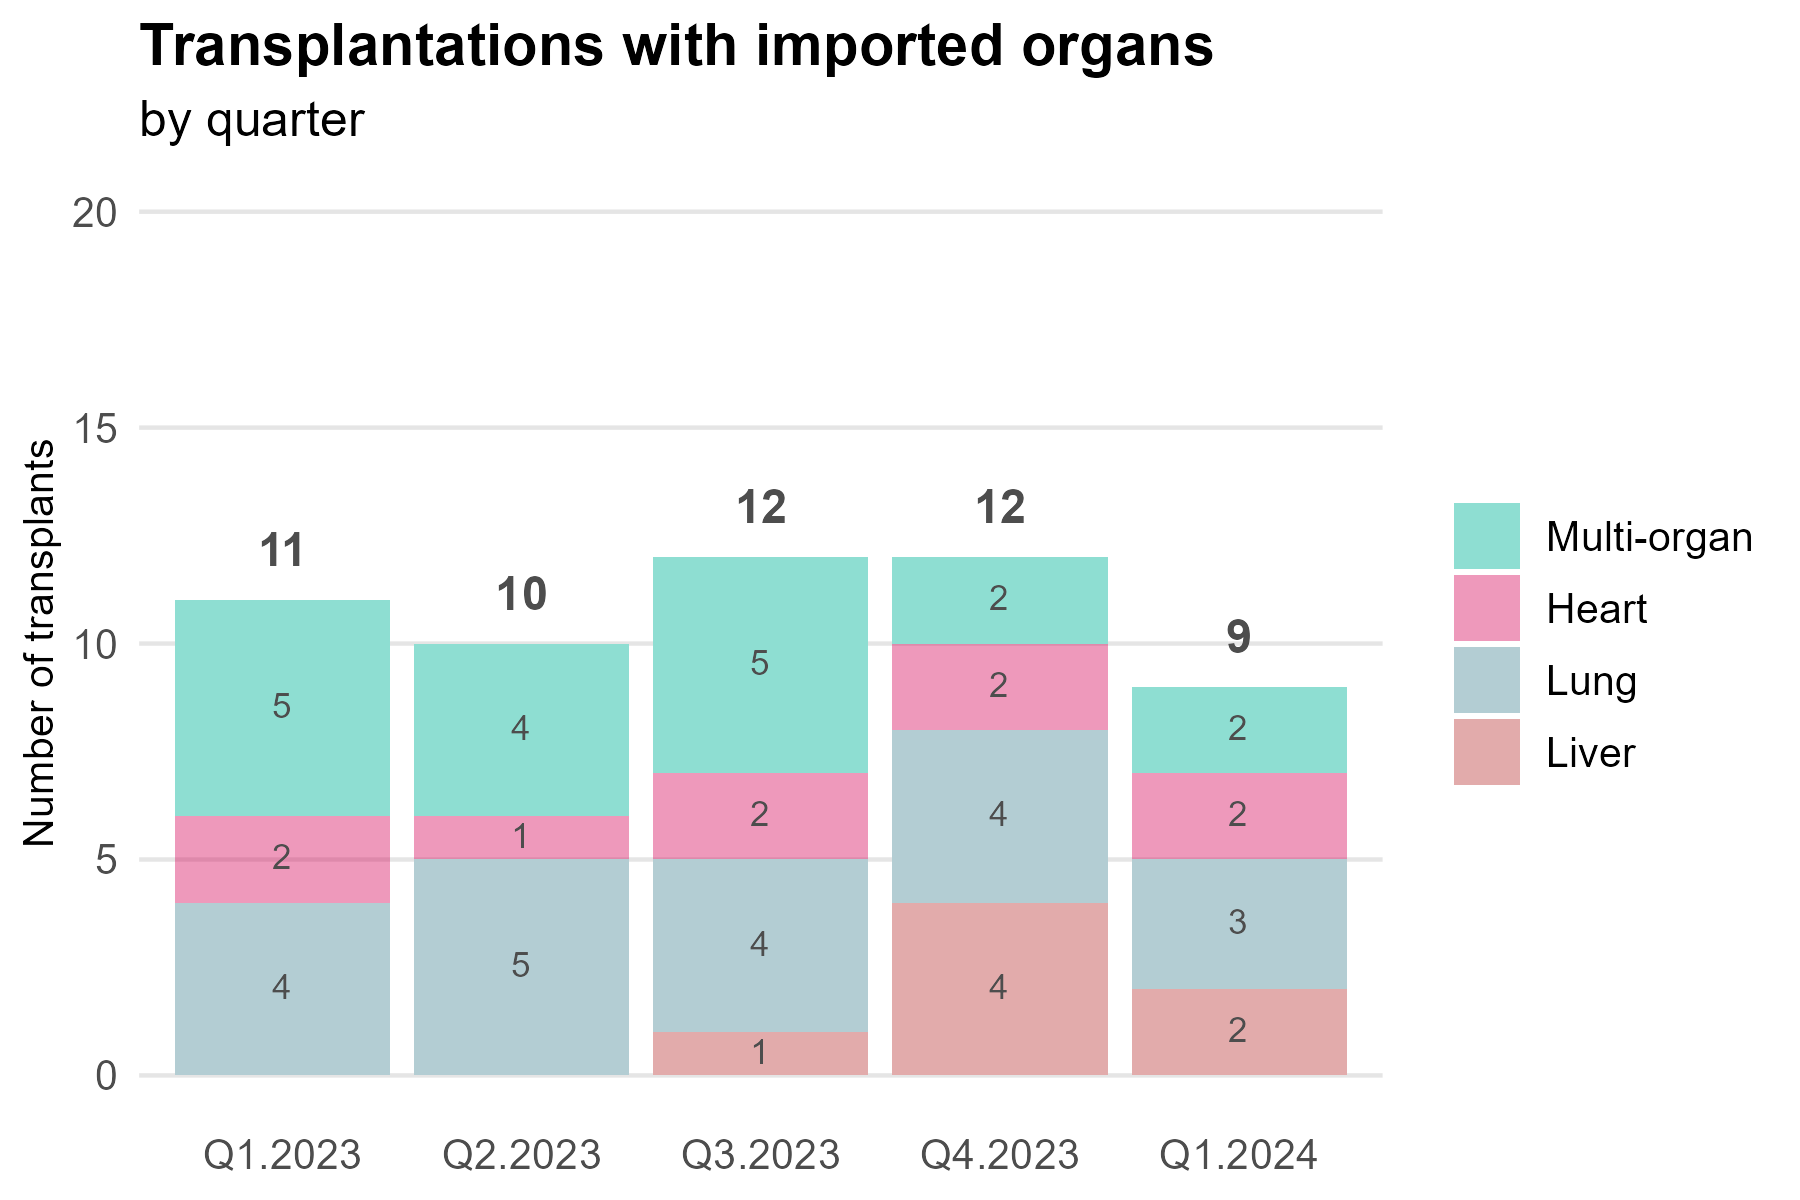
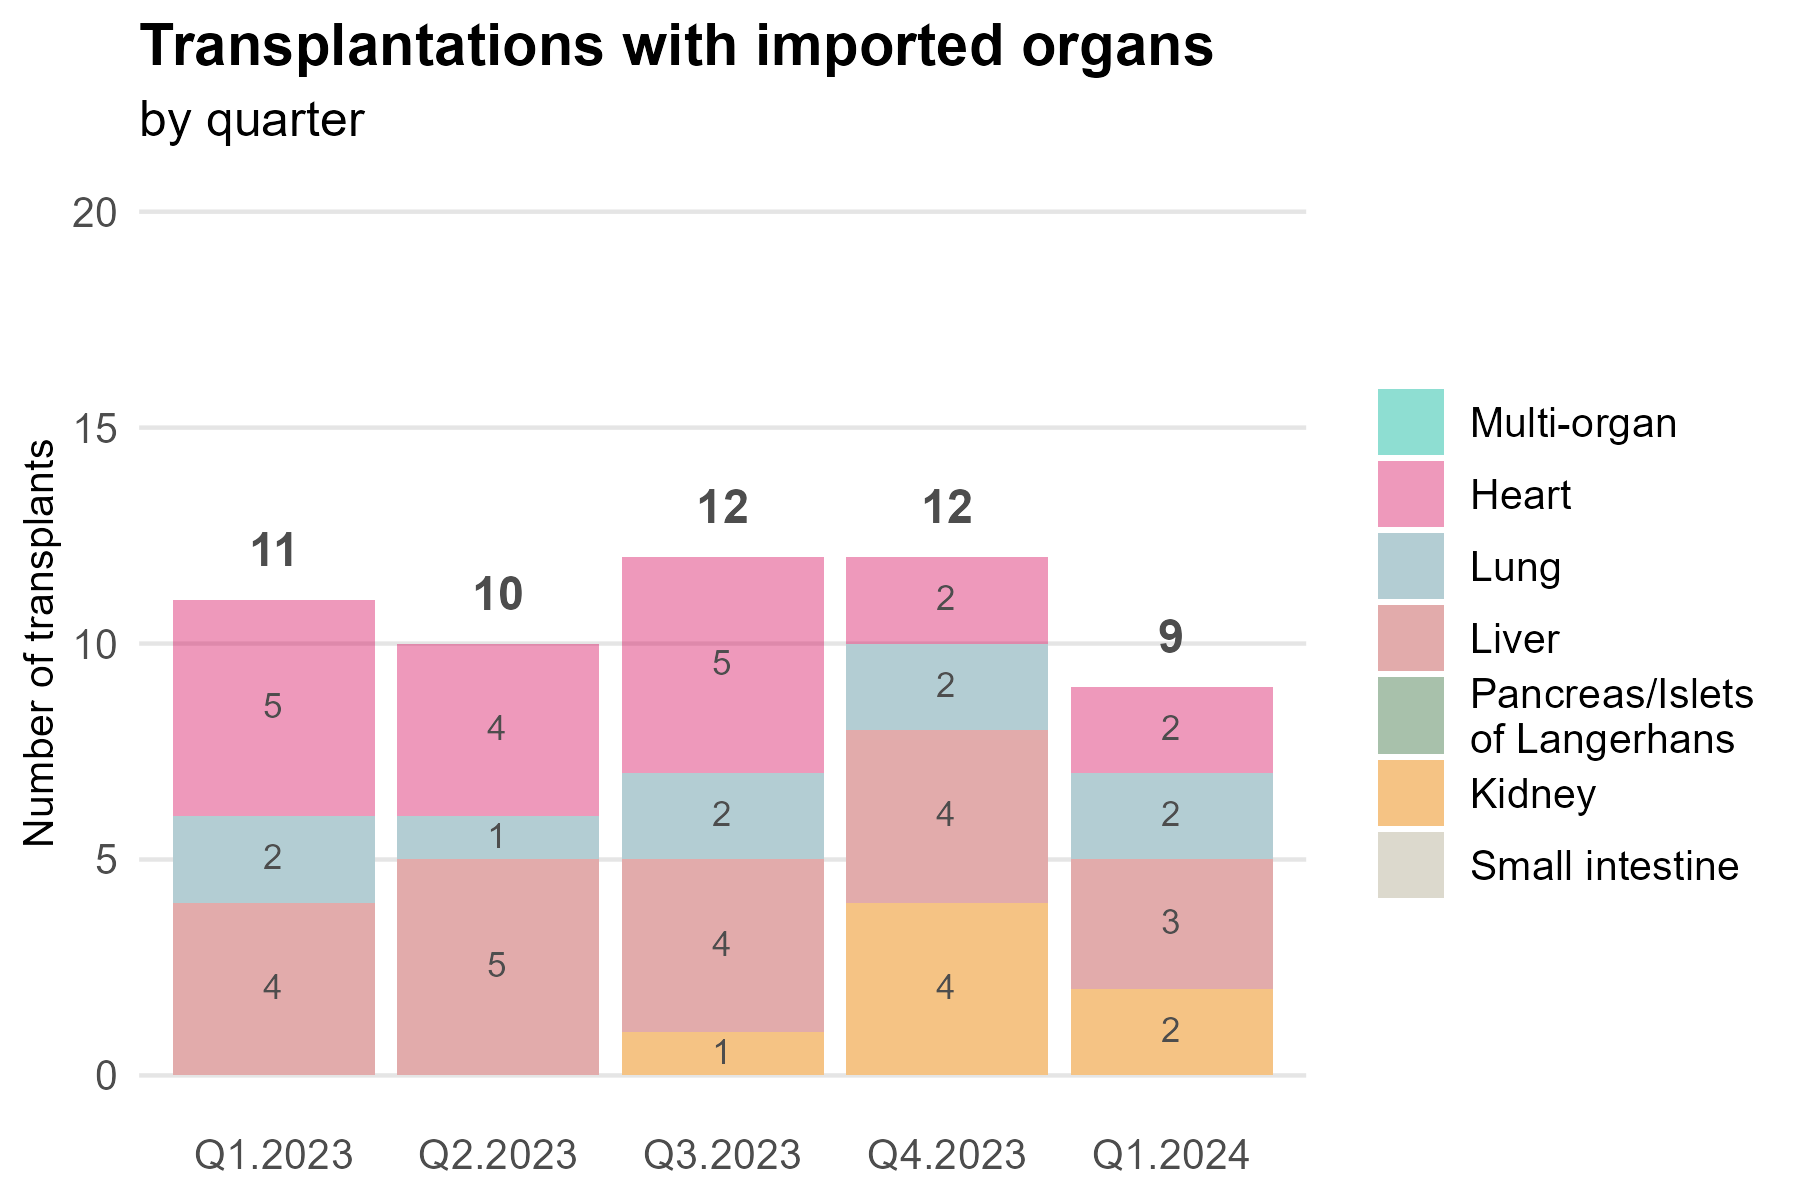
added fig 3.3

diff --git a/docs/posts/2024-Q1/index.html b/docs/posts/2024-Q1/index.html
@@ -186,6 +186,7 @@ ul.task-list li input[type="checkbox"] {
   <ul class="collapse">
   <li><a href="#transplantationen-1" id="toc-transplantationen-1" class="nav-link" data-scroll-target="#transplantationen-1">3.1 Transplantationen</a></li>
   <li><a href="#transplantationen-mit-importierten-organen" id="toc-transplantationen-mit-importierten-organen" class="nav-link" data-scroll-target="#transplantationen-mit-importierten-organen">3.2 Transplantationen mit importierten Organen</a></li>
+  <li><a href="#exportierte-organe" id="toc-exportierte-organe" class="nav-link" data-scroll-target="#exportierte-organe">3.3 Exportierte Organe</a></li>
   </ul></li>
   </ul>
 </nav>
@@ -233,6 +234,10 @@ ul.task-list li input[type="checkbox"] {
 <section id="transplantationen-mit-importierten-organen" class="level2">
 <h2 class="anchored" data-anchor-id="transplantationen-mit-importierten-organen">3.2 Transplantationen mit importierten Organen</h2>
 <p><img src="Fig3.2-de.png" class="img-fluid" style="width:80.0%"></p>
+</section>
+<section id="exportierte-organe" class="level2">
+<h2 class="anchored" data-anchor-id="exportierte-organe">3.3 Exportierte Organe</h2>
+<p><img src="Fig3.3-de.png" class="img-fluid" style="width:80.0%"></p>
 
 
 </section>

diff --git a/docs/fr/posts/2024-Q1/index.html b/docs/fr/posts/2024-Q1/index.html
@@ -186,6 +186,7 @@ ul.task-list li input[type="checkbox"] {
   <ul class="collapse">
   <li><a href="#transplantations-1" id="toc-transplantations-1" class="nav-link" data-scroll-target="#transplantations-1">3.1 Transplantations</a></li>
   <li><a href="#transplantations-avec-des-organes-importés" id="toc-transplantations-avec-des-organes-importés" class="nav-link" data-scroll-target="#transplantations-avec-des-organes-importés">3.2 Transplantations avec des organes importés</a></li>
+  <li><a href="#organes-exportés" id="toc-organes-exportés" class="nav-link" data-scroll-target="#organes-exportés">3.3 Organes exportés</a></li>
   </ul></li>
   </ul>
 </nav>
@@ -233,6 +234,10 @@ ul.task-list li input[type="checkbox"] {
 <section id="transplantations-avec-des-organes-importés" class="level2">
 <h2 class="anchored" data-anchor-id="transplantations-avec-des-organes-importés">3.2 Transplantations avec des organes importés</h2>
 <p><img src="Fig3.2-fr.png" class="img-fluid" style="width:80.0%"></p>
+</section>
+<section id="organes-exportés" class="level2">
+<h2 class="anchored" data-anchor-id="organes-exportés">3.3 Organes exportés</h2>
+<p><img src="Fig3.3-fr.png" class="img-fluid" style="width:80.0%"></p>
 
 
 </section>

diff --git a/docs/en/posts/2024-Q1/index.html b/docs/en/posts/2024-Q1/index.html
@@ -187,6 +187,7 @@ ul.task-list li input[type="checkbox"] {
   <ul class="collapse">
   <li><a href="#transplantations-3" id="toc-transplantations-3" class="nav-link" data-scroll-target="#transplantations-3">3.1 Transplantations</a></li>
   <li><a href="#transplantations-with-imported-organs" id="toc-transplantations-with-imported-organs" class="nav-link" data-scroll-target="#transplantations-with-imported-organs">3.2 Transplantations with imported organs</a></li>
+  <li><a href="#exported-organs" id="toc-exported-organs" class="nav-link" data-scroll-target="#exported-organs">3.3 Exported organs</a></li>
   </ul></li>
   </ul>
 </nav>
@@ -234,6 +235,10 @@ ul.task-list li input[type="checkbox"] {
 <section id="transplantations-with-imported-organs" class="level2">
 <h2 class="anchored" data-anchor-id="transplantations-with-imported-organs">3.2 Transplantations with imported organs</h2>
 <p><img src="Fig3.2-en.png" class="img-fluid" style="width:80.0%"></p>
+</section>
+<section id="exported-organs" class="level2">
+<h2 class="anchored" data-anchor-id="exported-organs">3.3 Exported organs</h2>
+<p><img src="Fig3.3-en.png" class="img-fluid" style="width:80.0%"></p>
 
 
 </section>

diff --git a/docs/en/posts.html b/docs/en/posts.html
@@ -224,7 +224,7 @@ window.Quarto = {
 
 <div class="quarto-listing quarto-listing-container-default" id="listing-listing">
 <div class="list quarto-listing-default">
-<div class="quarto-post image-right" data-index="0" data-categories="Quartalszahlen,Chiffres trimestriels,Quarterly figures" data-listing-date-sort="1712440800000" data-listing-file-modified-sort="1719262349956" data-listing-date-modified-sort="NaN" data-listing-reading-time-sort="2" data-listing-word-count-sort="225">
+<div class="quarto-post image-right" data-index="0" data-categories="Quartalszahlen,Chiffres trimestriels,Quarterly figures" data-listing-date-sort="1712440800000" data-listing-file-modified-sort="1719300937303" data-listing-date-modified-sort="NaN" data-listing-reading-time-sort="2" data-listing-word-count-sort="240">
 <div class="thumbnail">
 <p><a href="./posts/2024-Q1/index.html" class="no-external"></a></p><a href="./posts/2024-Q1/index.html" class="no-external">
 <p><img src="./posts/2024-Q1/swt_organ_transplant.jpg" class="thumbnail-image"></p>

diff --git a/docs/fr/posts.html b/docs/fr/posts.html
@@ -224,7 +224,7 @@ window.Quarto = {
 
 <div class="quarto-listing quarto-listing-container-default" id="listing-listing">
 <div class="list quarto-listing-default">
-<div class="quarto-post image-right" data-index="0" data-categories="Quartalszahlen,Chiffres trimestriels,Quarterly figures" data-listing-date-sort="1712440800000" data-listing-file-modified-sort="1719262349956" data-listing-date-modified-sort="NaN" data-listing-reading-time-sort="2" data-listing-word-count-sort="225">
+<div class="quarto-post image-right" data-index="0" data-categories="Quartalszahlen,Chiffres trimestriels,Quarterly figures" data-listing-date-sort="1712440800000" data-listing-file-modified-sort="1719300937303" data-listing-date-modified-sort="NaN" data-listing-reading-time-sort="2" data-listing-word-count-sort="240">
 <div class="thumbnail">
 <p><a href="./posts/2024-Q1/index.html" class="no-external"></a></p><a href="./posts/2024-Q1/index.html" class="no-external">
 <p><img src="./posts/2024-Q1/swt_organ_transplant.jpg" class="thumbnail-image"></p>

diff --git a/docs/posts.html b/docs/posts.html
@@ -224,7 +224,7 @@ window.Quarto = {
 
 <div class="quarto-listing quarto-listing-container-default" id="listing-listing">
 <div class="list quarto-listing-default">
-<div class="quarto-post image-right" data-index="0" data-categories="Quartalszahlen,Chiffres trimestriels,Quarterly figures" data-listing-date-sort="1712440800000" data-listing-file-modified-sort="1719262349956" data-listing-date-modified-sort="NaN" data-listing-reading-time-sort="2" data-listing-word-count-sort="225">
+<div class="quarto-post image-right" data-index="0" data-categories="Quartalszahlen,Chiffres trimestriels,Quarterly figures" data-listing-date-sort="1712440800000" data-listing-file-modified-sort="1719300937303" data-listing-date-modified-sort="NaN" data-listing-reading-time-sort="2" data-listing-word-count-sort="240">
 <div class="thumbnail">
 <p><a href="./posts/2024-Q1/index.html" class="no-external"></a></p><a href="./posts/2024-Q1/index.html" class="no-external">
 <p><img src="./posts/2024-Q1/swt_organ_transplant.jpg" class="thumbnail-image"></p>
